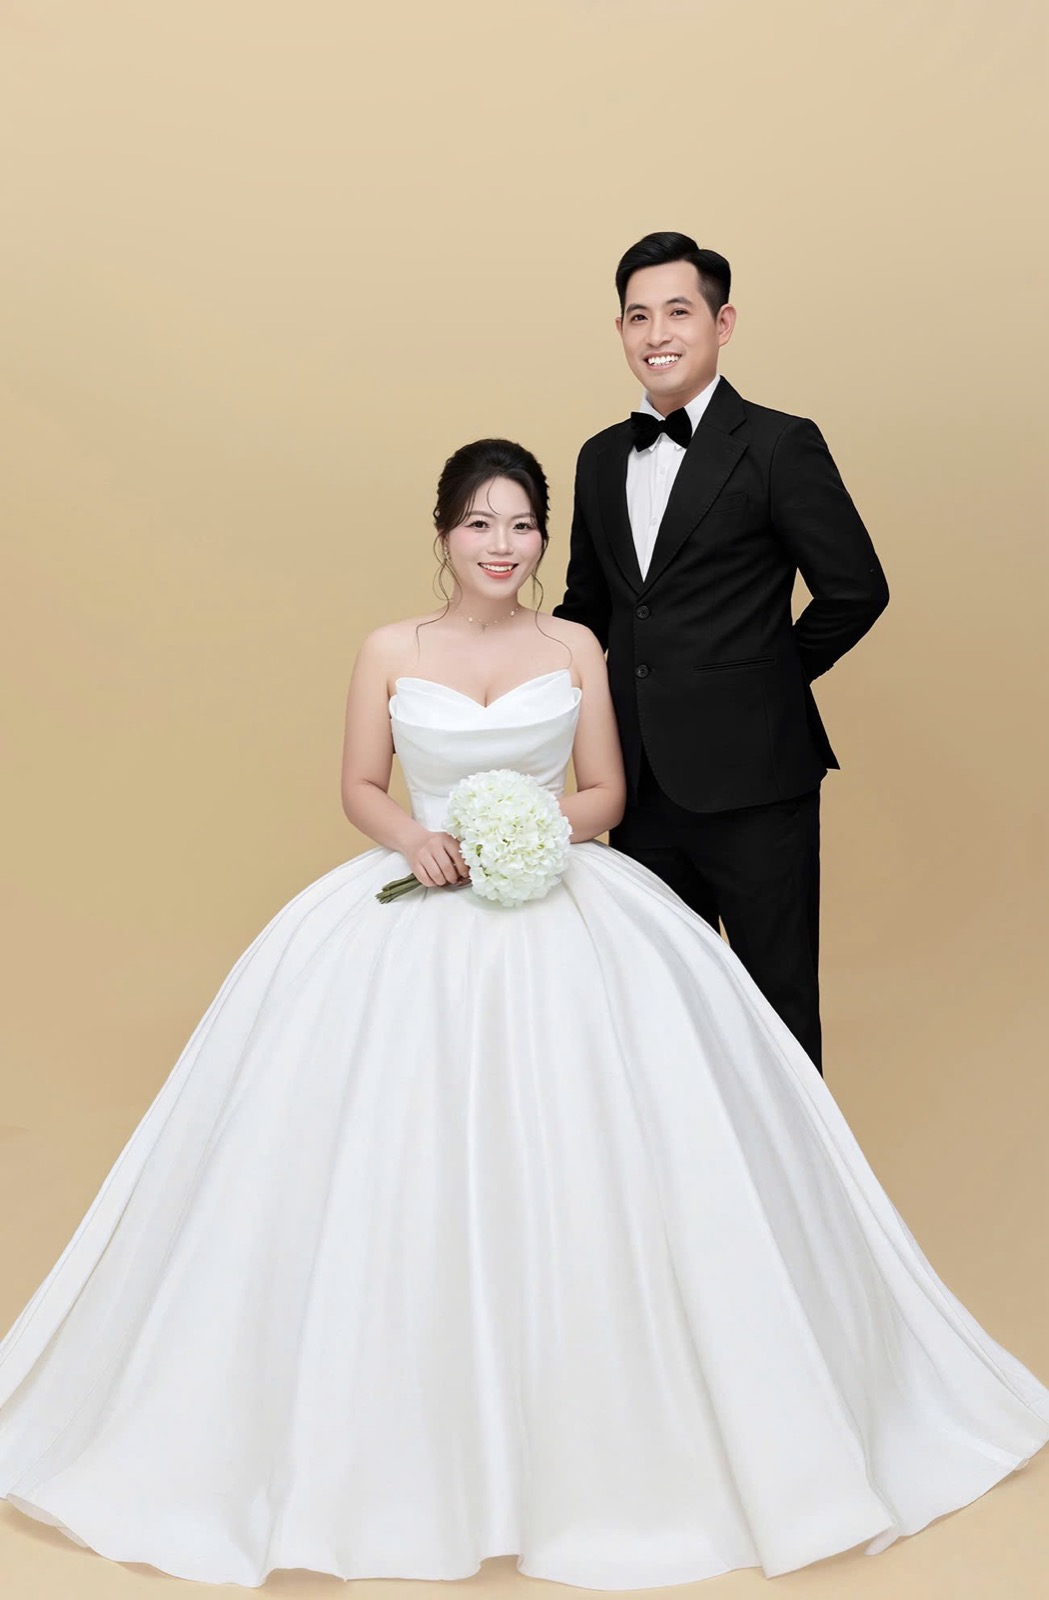
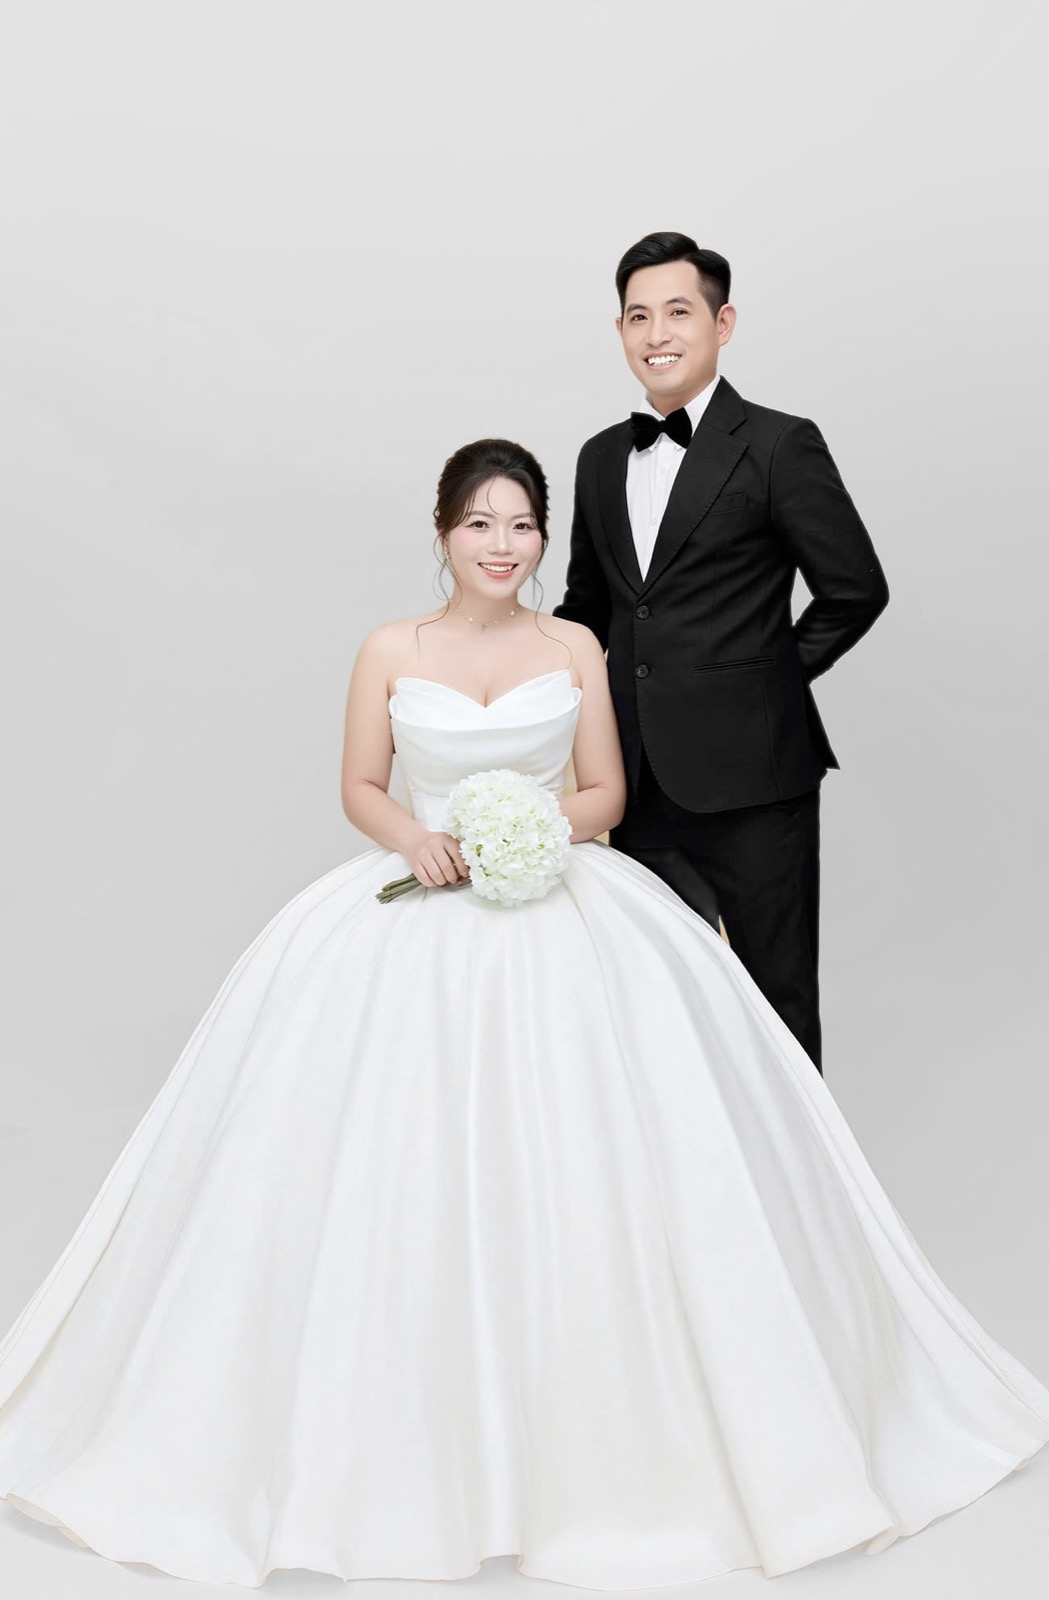
feat: thiệp Sen & Thắng (sen_thang_nha_gai) — album thay 2 ảnh khách gạch bằng 2 ảnh mới, đổi phông vàng sang phông trắng (album + Thank You) (issue #29)

diff --git a/dist/assets/index-jGoY0ibc.js b/dist/assets/index-jGoY0ibc.js
@@ -102,7 +102,7 @@ Error generating stack: `+i.message+`
  *
  * This source code is licensed under the ISC license.
  * See the LICENSE file in the root directory of this source tree.
- */const ip=qe("X",[["path",{d:"M18 6 6 18",key:"1bl5f8"}],["path",{d:"m6 6 12 12",key:"d8bk6v"}]]),yc="Thôn Giao Thiện, Xã Giao Minh, Tỉnh Ninh Bình",xc="Thôn Tiến Thắng, Xã Yên Đồng, Tỉnh Ninh Bình",op={label:"Nhà Gái",father:"Đinh Văn Thiều",mother:"Phạm Thị Quýt",address:yc},up={label:"Nhà Trai",father:"Nguyễn Đình Hy",mother:"Nguyễn Thị Vừng",address:xc},Wi={hero:{subtitle:"Save The Date",names:["Đinh Sen","Đình Thắng"]},couple:{groom:{role:"Chú rể",name:"Đình Thắng"},bride:{role:"Cô dâu",name:"Đinh Sen"}},families:{sides:[op,up],fullNames:["Đinh Sen","Đình Thắng"]},invitation:{kicker:"Trân Trọng Kính Mời",defaultGuest:"Quý khách",title:"Tham Dự Lễ Vu Quy",dateParts:["08","11","2026"]},events:{mapLabel:"Xem vị trí",items:[{id:"tiec-cuoi",title:"Tiệc Mừng Lễ Vu Quy",time:"..:.. | Chủ Nhật",editable:!0,date:"08. 11. 2026",lunar:"( Tức Ngày 30 Tháng 09 Năm Bính Ngọ )",places:[{label:"Tại Tư Gia Nhà Gái",address:yc,mapQuery:"Xuân Bảo, ĐT489, Giao Minh, Ninh Bình",mapLink:"https://www.google.com/maps?q=7GMQ%2B67P+Xu%C3%A2n+B%E1%BA%A3o,+%C4%90T489,+Giao+Minh,+Ninh+B%C3%ACnh&ftid=0x3149ffb8e5b079cb:0x694f7e0cf8e71152"}]},{id:"thanh-hon",title:"Lễ Thành Hôn",time:"13:00 | Chủ Nhật",date:"08. 11. 2026",lunar:"( Tức Ngày 30 Tháng 09 Năm Bính Ngọ )",places:[{label:"Tại Tư Gia Nhà Trai",address:xc,mapQuery:"Phố Nấp, Yên Đồng, Ý Yên, Nam Định",mapLink:"https://www.google.com/maps/search/?api=1&query=20.256000518798828,106.0662841796875"}]}]},countdown:{title:"Đếm Ngược Ngày Vui",target:"2026-11-08T13:00:00+07:00",labels:["Ngày","Giờ","Phút","Giây"]},calendar:{dateIso:"2026-11-08"},rsvp:{show:!1},gift:{button:"Gửi Mừng Cưới",title:"Hộp Quà Mừng Cưới",copyLabel:"Copy STK",copiedLabel:"Đã copy",saveQrLabel:"Lưu ảnh QR",accounts:[{holder:"DINH THI SEN",number:"0031000233954",bank:"Vietcombank",qr:"/images/qr-vietcombank-sen.png"}]},thanks:{title:"Thank You",text:"Từ tận đáy lòng, chúng mình cảm ơn bạn đã dành tình cảm và sự hiện diện cho ngày vui này. Chính bạn đã góp phần làm nên một kỷ niệm hạnh phúc mà chúng mình sẽ luôn trân trọng."},music:{src:"/music/vay-cuoi.mp3",volume:.45}},Be={hero:"/images/anh-chinh.jpg",groom:"/images/studio-05.jpg",bride:"/images/co-dau.jpg",dateStrip:["/images/studio-06.jpg","/images/studio-04.jpg","/images/studio-05.jpg"],polaroid:"/images/studio-08.jpg",circle:"/images/studio-10.jpg",album:["/images/studio-03.jpg","/images/studio-07.jpg","/images/album-3.jpg","/images/album-4.jpg","/images/studio-12.jpg","/images/studio-04.jpg"],gift:"/images/studio-08.jpg",thankYou:"/images/thank-you.jpg"},sp=["Chủ Nhật","Thứ Hai","Thứ Ba","Thứ Tư","Thứ Năm","Thứ Sáu","Thứ Bảy"];function ap(e,t=window.location.search){let n;try{n=new URLSearchParams(t)}catch{return e}const r=/^([01]?\d|2[0-3]):([0-5]\d)$/.exec((n.get("gio")||"").trim()),l=/^(\d{4})-(\d{2})-(\d{2})$/.exec((n.get("ngay")||"").trim());if(!r&&!l)return e;const i=l?new Date(+l[1],+l[2]-1,+l[3]):null,o=i&&i.getMonth()===+l[2]-1;return e.map(u=>{if(!u.editable)return u;const[s,f]=u.time.split("|").map(v=>v.trim()),h={...u};return r&&(h.time=`${r[1].padStart(2,"0")}:${r[2]} | ${f}`),o&&(h.time=`${r?`${r[1].padStart(2,"0")}:${r[2]}`:s} | ${sp[i.getDay()]}`,h.date=`${l[3]}. ${l[2]}. ${l[1]}`,h.date!==u.date&&(h.lunar="")),h})}function cp(e){return e.some(t=>t.editable)}const Ju="guest-links:names",fp="/tao-link";function dp(){try{return window.location.pathname.replace(/\/+$/,"")===fp}catch{return!1}}function Xl(e,t,n=""){return`${e}/?khach=${encodeURIComponent(t)}${n}`}async function pp(e){try{return await navigator.clipboard.writeText(e),!0}catch{const t=document.createElement("textarea");t.value=e,t.style.position="fixed",t.style.opacity="0",document.body.appendChild(t),t.select();const n=document.execCommand("copy");return document.body.removeChild(t),n}}function qu({text:e,label:t="Sao chép",className:n=""}){const[r,l]=P.useState(!1);async function i(){await pp(e)&&(l(!0),setTimeout(()=>l(!1),1500))}return a.jsxs("button",{type:"button",onClick:i,className:`inline-flex shrink-0 items-center gap-1.5 rounded-lg px-3 py-1.5 text-sm font-semibold transition ${r?"bg-green-600 text-white":"bg-[#9e3745] text-white hover:bg-[#7e2b37]"} ${n}`,children:[r?a.jsx(vc,{className:"h-4 w-4","aria-hidden":!0}):a.jsx(gc,{className:"h-4 w-4","aria-hidden":!0}),r?"Đã chép":t]})}function mp(){const e=P.useMemo(()=>window.location.origin,[]),[t,n]=P.useState(()=>{try{return localStorage.getItem(Ju)??""}catch{return""}}),[r,l]=P.useState(!0),i=cp(Wi.events.items),o=Wi.events.items.find(y=>y.editable),[u,s]=P.useState(""),[f,h]=P.useState(""),v=(u?`&gio=${u}`:"")+(f?`&ngay=${f}`:"");P.useEffect(()=>{try{localStorage.setItem(Ju,t)}catch{}},[t]);const m=P.useMemo(()=>{const y=new Set;return t.split(`
+ */const ip=qe("X",[["path",{d:"M18 6 6 18",key:"1bl5f8"}],["path",{d:"m6 6 12 12",key:"d8bk6v"}]]),yc="Thôn Giao Thiện, Xã Giao Minh, Tỉnh Ninh Bình",xc="Thôn Tiến Thắng, Xã Yên Đồng, Tỉnh Ninh Bình",op={label:"Nhà Gái",father:"Đinh Văn Thiều",mother:"Phạm Thị Quýt",address:yc},up={label:"Nhà Trai",father:"Nguyễn Đình Hy",mother:"Nguyễn Thị Vừng",address:xc},Wi={hero:{subtitle:"Save The Date",names:["Đinh Sen","Đình Thắng"]},couple:{groom:{role:"Chú rể",name:"Đình Thắng"},bride:{role:"Cô dâu",name:"Đinh Sen"}},families:{sides:[op,up],fullNames:["Đinh Sen","Đình Thắng"]},invitation:{kicker:"Trân Trọng Kính Mời",defaultGuest:"Quý khách",title:"Tham Dự Lễ Vu Quy",dateParts:["08","11","2026"]},events:{mapLabel:"Xem vị trí",items:[{id:"tiec-cuoi",title:"Tiệc Mừng Lễ Vu Quy",time:"..:.. | Chủ Nhật",editable:!0,date:"08. 11. 2026",lunar:"( Tức Ngày 30 Tháng 09 Năm Bính Ngọ )",places:[{label:"Tại Tư Gia Nhà Gái",address:yc,mapQuery:"Xuân Bảo, ĐT489, Giao Minh, Ninh Bình",mapLink:"https://www.google.com/maps?q=7GMQ%2B67P+Xu%C3%A2n+B%E1%BA%A3o,+%C4%90T489,+Giao+Minh,+Ninh+B%C3%ACnh&ftid=0x3149ffb8e5b079cb:0x694f7e0cf8e71152"}]},{id:"thanh-hon",title:"Lễ Thành Hôn",time:"13:00 | Chủ Nhật",date:"08. 11. 2026",lunar:"( Tức Ngày 30 Tháng 09 Năm Bính Ngọ )",places:[{label:"Tại Tư Gia Nhà Trai",address:xc,mapQuery:"Phố Nấp, Yên Đồng, Ý Yên, Nam Định",mapLink:"https://www.google.com/maps/search/?api=1&query=20.256000518798828,106.0662841796875"}]}]},countdown:{title:"Đếm Ngược Ngày Vui",target:"2026-11-08T13:00:00+07:00",labels:["Ngày","Giờ","Phút","Giây"]},calendar:{dateIso:"2026-11-08"},rsvp:{show:!1},gift:{button:"Gửi Mừng Cưới",title:"Hộp Quà Mừng Cưới",copyLabel:"Copy STK",copiedLabel:"Đã copy",saveQrLabel:"Lưu ảnh QR",accounts:[{holder:"DINH THI SEN",number:"0031000233954",bank:"Vietcombank",qr:"/images/qr-vietcombank-sen.png"}]},thanks:{title:"Thank You",text:"Từ tận đáy lòng, chúng mình cảm ơn bạn đã dành tình cảm và sự hiện diện cho ngày vui này. Chính bạn đã góp phần làm nên một kỷ niệm hạnh phúc mà chúng mình sẽ luôn trân trọng."},music:{src:"/music/vay-cuoi.mp3",volume:.45}},Be={hero:"/images/anh-chinh.jpg",groom:"/images/studio-05.jpg",bride:"/images/co-dau.jpg",dateStrip:["/images/studio-06.jpg","/images/studio-04.jpg","/images/studio-05.jpg"],polaroid:"/images/studio-08.jpg",circle:"/images/studio-10.jpg",album:["/images/album-1.jpg","/images/studio-07.jpg","/images/album-3.jpg","/images/album-4.jpg","/images/studio-12.jpg","/images/album-6.jpg"],gift:"/images/studio-08.jpg",thankYou:"/images/thank-you.jpg"},sp=["Chủ Nhật","Thứ Hai","Thứ Ba","Thứ Tư","Thứ Năm","Thứ Sáu","Thứ Bảy"];function ap(e,t=window.location.search){let n;try{n=new URLSearchParams(t)}catch{return e}const r=/^([01]?\d|2[0-3]):([0-5]\d)$/.exec((n.get("gio")||"").trim()),l=/^(\d{4})-(\d{2})-(\d{2})$/.exec((n.get("ngay")||"").trim());if(!r&&!l)return e;const i=l?new Date(+l[1],+l[2]-1,+l[3]):null,o=i&&i.getMonth()===+l[2]-1;return e.map(u=>{if(!u.editable)return u;const[s,f]=u.time.split("|").map(v=>v.trim()),h={...u};return r&&(h.time=`${r[1].padStart(2,"0")}:${r[2]} | ${f}`),o&&(h.time=`${r?`${r[1].padStart(2,"0")}:${r[2]}`:s} | ${sp[i.getDay()]}`,h.date=`${l[3]}. ${l[2]}. ${l[1]}`,h.date!==u.date&&(h.lunar="")),h})}function cp(e){return e.some(t=>t.editable)}const Ju="guest-links:names",fp="/tao-link";function dp(){try{return window.location.pathname.replace(/\/+$/,"")===fp}catch{return!1}}function Xl(e,t,n=""){return`${e}/?khach=${encodeURIComponent(t)}${n}`}async function pp(e){try{return await navigator.clipboard.writeText(e),!0}catch{const t=document.createElement("textarea");t.value=e,t.style.position="fixed",t.style.opacity="0",document.body.appendChild(t),t.select();const n=document.execCommand("copy");return document.body.removeChild(t),n}}function qu({text:e,label:t="Sao chép",className:n=""}){const[r,l]=P.useState(!1);async function i(){await pp(e)&&(l(!0),setTimeout(()=>l(!1),1500))}return a.jsxs("button",{type:"button",onClick:i,className:`inline-flex shrink-0 items-center gap-1.5 rounded-lg px-3 py-1.5 text-sm font-semibold transition ${r?"bg-green-600 text-white":"bg-[#9e3745] text-white hover:bg-[#7e2b37]"} ${n}`,children:[r?a.jsx(vc,{className:"h-4 w-4","aria-hidden":!0}):a.jsx(gc,{className:"h-4 w-4","aria-hidden":!0}),r?"Đã chép":t]})}function mp(){const e=P.useMemo(()=>window.location.origin,[]),[t,n]=P.useState(()=>{try{return localStorage.getItem(Ju)??""}catch{return""}}),[r,l]=P.useState(!0),i=cp(Wi.events.items),o=Wi.events.items.find(y=>y.editable),[u,s]=P.useState(""),[f,h]=P.useState(""),v=(u?`&gio=${u}`:"")+(f?`&ngay=${f}`:"");P.useEffect(()=>{try{localStorage.setItem(Ju,t)}catch{}},[t]);const m=P.useMemo(()=>{const y=new Set;return t.split(`
 `).map(_=>_.replace(/\s+/g," ").trim()).filter(_=>_&&!y.has(_.toLowerCase())&&y.add(_.toLowerCase()))},[t]),g=m.map(y=>r?`${y}: ${Xl(e,y,v)}`:Xl(e,y,v)),x=document.title;return a.jsx("div",{className:"min-h-screen bg-[#f8f6f2] px-4 py-8 font-sans text-[#1f1f1f]",children:a.jsxs("main",{className:"mx-auto max-w-[640px]",children:[a.jsx("h1",{className:"text-2xl font-bold",children:"Tạo link mời khách"}),a.jsxs("p",{className:"mt-1 text-sm text-black/60",children:["Thiệp: ",a.jsx("b",{children:x})]}),i&&a.jsxs("section",{className:"mt-6 rounded-xl bg-white p-4 shadow-sm",children:[a.jsxs("p",{className:"text-sm font-semibold",children:['Thời gian "',o.title,'" (để trống = giữ như trong thiệp)']}),a.jsxs("div",{className:"mt-2 flex flex-wrap gap-3",children:[a.jsxs("label",{className:"text-sm",children:["Giờ",a.jsx("input",{type:"time",value:u,onChange:y=>s(y.target.value),className:"ml-2 rounded-lg border border-black/20 px-2 py-1"})]}),a.jsxs("label",{className:"text-sm",children:["Ngày",a.jsx("input",{type:"date",value:f,onChange:y=>h(y.target.value),className:"ml-2 rounded-lg border border-black/20 px-2 py-1"})]})]}),a.jsx("p",{className:"mt-2 text-xs text-black/50",children:"Giờ / ngày được gắn vào mọi link bên dưới; thứ trong tuần tự tính."})]}),a.jsx("label",{className:"mt-6 block text-sm font-semibold",htmlFor:"guest-names",children:"Tên khách mời — mỗi dòng một người, ghi cả xưng hô (vd: Cô Lan, Gia đình bác Hùng, Anh Tuấn)"}),a.jsx("textarea",{id:"guest-names",value:t,onChange:y=>n(y.target.value),rows:8,placeholder:`Cô Lan
 Gia đình bác Hùng
 Anh Tuấn & chị Mai`,className:"mt-2 w-full rounded-xl border border-black/20 bg-white p-3 text-base outline-none focus:border-[#9e3745]"}),a.jsx("p",{className:"mt-1 text-xs text-black/50",children:"Danh sách được lưu trên trình duyệt này, mở lại trang vẫn còn."}),m.length>0&&a.jsxs(a.Fragment,{children:[a.jsxs("div",{className:"mt-6 flex flex-wrap items-center justify-between gap-3",children:[a.jsxs("p",{className:"font-semibold",children:[m.length," link"]}),a.jsxs("div",{className:"flex items-center gap-3",children:[a.jsxs("label",{className:"flex items-center gap-1.5 text-sm",children:[a.jsx("input",{type:"checkbox",checked:r,onChange:y=>l(y.target.checked)}),"Kèm tên khi chép tất cả"]}),a.jsx(qu,{text:g.join(`

diff --git a/dist/index.html b/dist/index.html
@@ -24,7 +24,7 @@
       href="https://fonts.googleapis.com/css2?family=Cormorant+Upright:wght@400;600&family=Ephesis&family=Great+Vibes&family=Imperial+Script&family=Cormorant+Garamond:wght@400;500;600;700&family=Montserrat:wght@400;500;600;700&family=Quicksand:wght@400;500;600;700&family=Tinos:ital,wght@0,400;0,700;1,400&display=swap"
       rel="stylesheet"
     />
-    <script type="module" crossorigin src="/assets/index-D8emfzC7.js"></script>
+    <script type="module" crossorigin src="/assets/index-jGoY0ibc.js"></script>
     <link rel="stylesheet" crossorigin href="/assets/index-Cz8ypMrB.css">
   </head>
   <body>

diff --git a/src/image.js b/src/image.js
@@ -16,12 +16,12 @@ export const images = {
   circle: '/images/studio-10.jpg',
   /** Album of Love — lưới 2 cột, số chẵn ảnh */
   album: [
-    '/images/studio-03.jpg',
+    '/images/album-1.jpg',
     '/images/studio-07.jpg',
     '/images/album-3.jpg',
     '/images/album-4.jpg',
     '/images/studio-12.jpg',
-    '/images/studio-04.jpg',
+    '/images/album-6.jpg',
   ],
   /** Ảnh trong hộp quà mừng cưới */
   gift: '/images/studio-08.jpg',
